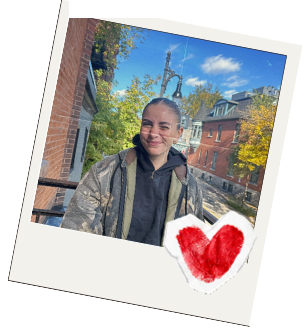
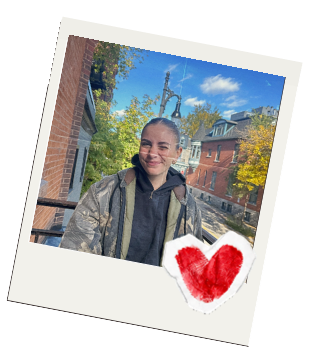
Fix top border of balcony Polaroid sticker and remove sticker book tab scrollbar

diff --git a/index.html b/index.html
@@ -851,12 +851,20 @@
     }
 
     /* Page tab buttons on top edge of Sticker Book */
+    .sb-tabs-row {
+      scrollbar-width: none;
+      -ms-overflow-style: none;
+    }
+    .sb-tabs-row::-webkit-scrollbar {
+      display: none;
+    }
+
     .sb-tab-btn {
       font-family: 'Gaegu', 'Fredoka', 'Covered By Your Grace', cursive;
-      font-size: 0.92rem;
+      font-size: 0.86rem;
       font-weight: 700;
-      height: 31px;
-      padding: 0 7px;
+      height: 29px;
+      padding: 0 5px;
       border-radius: 10px 10px 0 0;
       display: inline-flex;
       align-items: center;
@@ -1299,9 +1307,9 @@
         <!-- 3D Swinging Cover Flap on Open -->
         <div id="sticker-book-cover-flap" class="sticker-book-cover-flap"></div>
 
-        <!-- Top Page Tabs & Controls (Cute Handwritten Font) -->
-        <div class="flex items-center justify-between pl-14 sm:pl-24 pr-1.5 pb-1.5 select-none gap-1">
-          <div class="flex items-center gap-1 overflow-x-auto">
+        <!-- Top Page Tabs & Controls (Cute Handwritten Font — Fits cleanly with zero scrollbar) -->
+        <div class="flex items-center justify-between pl-14 sm:pl-20 pr-1 pb-1.5 select-none gap-1">
+          <div class="sb-tabs-row flex items-center gap-1 flex-1 min-w-0 overflow-hidden">
             <button type="button" onclick="switchStickerSpread('all')" id="sb-tab-all" class="sb-tab-btn is-active" title="All Stickers (Scrollable!)">✦ all</button>
             <button type="button" onclick="switchStickerSpread(0)" id="sb-tab-0" class="sb-tab-btn" title="Spread 1: Cats & Friends">🐾 pals</button>
             <button type="button" onclick="switchStickerSpread(1)" id="sb-tab-1" class="sb-tab-btn" title="Spread 2: Magic & Doodles">✨ magic</button>

diff --git a/sw.js b/sw.js
@@ -1,4 +1,4 @@
-const CACHE_NAME = 'abigail-portfolio-v22';
+const CACHE_NAME = 'abigail-portfolio-v23';
 const PRECACHE_ASSETS = [
   './',
   './index.html',
